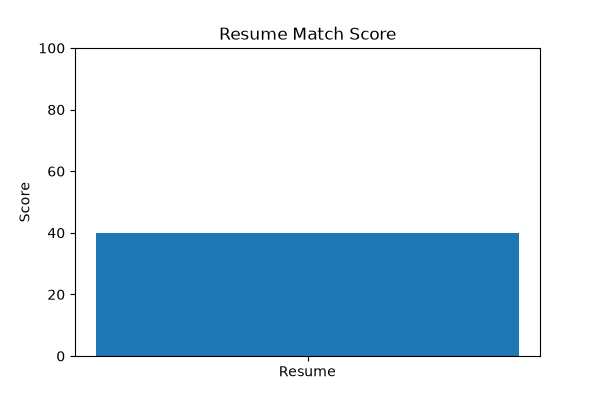
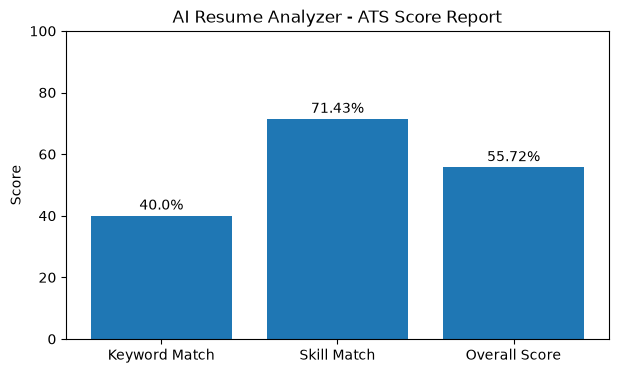
Upgrade dashboard visualization for ATS scoring metrics

Changed region(s): [[0.06, 0.0295, 0.99, 0.9732], [0.0, 0.4424, 0.06, 0.5603]]

diff --git a/visualizations/dashboard.py b/visualizations/dashboard.py
@@ -1,17 +1,50 @@
+"""
+Resume Analysis Dashboard
+
+Creates visualization for ATS scoring results.
+"""
+
 import json
 import matplotlib.pyplot as plt
+
 
 with open("data/analysis_results.json", "r") as file:
     results = json.load(file)
 
-score = results["keyword_match_score"]
 
-plt.figure(figsize=(6, 4))
-plt.bar(["Resume"], [score])
-plt.title("Resume Match Score")
+categories = [
+    "Keyword Match",
+    "Skill Match",
+    "Overall Score"
+]
+
+scores = [
+    results["keyword_match_score"],
+    results["skill_match_score"],
+    results["overall_score"]
+]
+
+
+plt.figure(figsize=(7, 4))
+
+plt.bar(categories, scores)
+
+plt.title("AI Resume Analyzer - ATS Score Report")
 plt.ylabel("Score")
 plt.ylim(0, 100)
 
-plt.savefig("visualizations/resume_score.png")
+for index, score in enumerate(scores):
+    plt.text(
+        index,
+        score + 2,
+        f"{score}%",
+        ha="center"
+    )
 
-print("Visualization saved successfully.")
+
+plt.savefig(
+    "visualizations/resume_score.png",
+    bbox_inches="tight"
+)
+
+print("ATS dashboard created successfully.")